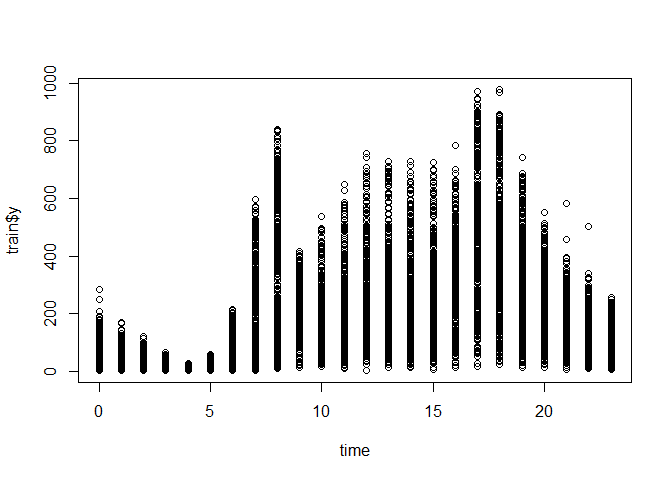
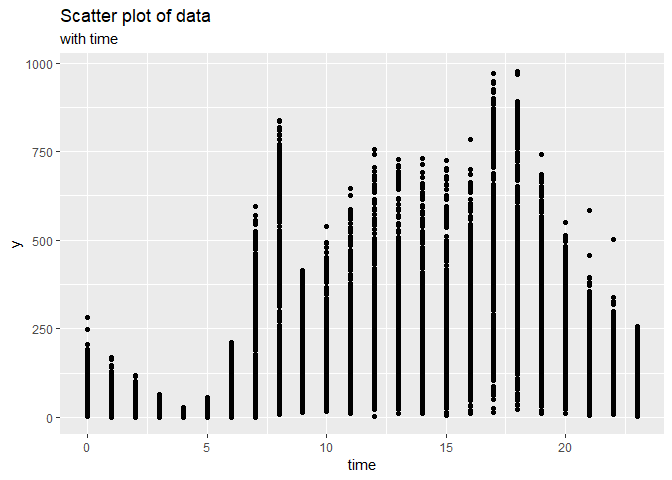
Before modeling 1st

diff --git a/Bike_Sharing_Demand_md.md b/Bike_Sharing_Demand_md.md
@@ -209,8 +209,13 @@ length(table(data$datetime))
 -&gt; 문자열 데이터이며, 데이터의 분할이 필요함을 확인할 수 있다.
 
 ``` r
-with(data, plot(y~as.factor(datetime)))
+ggplot(data = data, aes(x = datetime, y = y)) +
+  geom_point() +
+  labs(title = 'Scatter plot of data',
+       subtitle = 'with datetime')
 ```
+
+    ## Warning: Removed 6493 rows containing missing values (geom_point).
 
 ![](Bike_Sharing_Demand_md_files/figure-markdown_github/unnamed-chunk-5-1.png)
 
@@ -241,7 +246,7 @@ levels(data$season)
     ## [1] "spring" "summer" "fall"   "winter"
 
 계절에 따른 y값의 모양을 상자그림을 통하여 실시하려고 한다.
-단 2가지 방법으로 표현해보도록 하자.
+단 2가지 방법으로 표현해보도록 하자.(이후 표현은 ggplot으로 통일한다.)
 
 **A. Box Plot으로 그리기**
 
@@ -435,14 +440,6 @@ ggplot(data = data, aes(data$y))+
 **시간 분할해서 plot그려보기.**
 
 ``` r
-sp <- unlist(strsplit(train$datetime, ":"))
-time <- substr(sp[seq(from = 1, to = length(sp), by = 2)], 12, 13)
-plot(train$y~time)
-```
-
-![](Bike_Sharing_Demand_md_files/figure-markdown_github/unnamed-chunk-19-1.png)
-
-``` r
 sp <- unlist(strsplit(data$datetime, ":"))
 time <- substr(sp[seq(from = 1, to = length(sp), by = 2)], 12, 13)
 data$time <- as.integer(time)
@@ -454,7 +451,7 @@ ggplot(data = data, aes(x = time, y = y)) +
 
     ## Warning: Removed 6493 rows containing missing values (geom_point).
 
-![](Bike_Sharing_Demand_md_files/figure-markdown_github/unnamed-chunk-20-1.png)
+![](Bike_Sharing_Demand_md_files/figure-markdown_github/unnamed-chunk-19-1.png)
 
 -&gt; 일정한 추세를 보이는 것을 확인할 수 있었다.
 
@@ -511,7 +508,7 @@ ggplot(data = data, aes(x = daytime, y = y)) +
 
     ## Warning: Removed 6493 rows containing non-finite values (stat_boxplot).
 
-![](Bike_Sharing_Demand_md_files/figure-markdown_github/unnamed-chunk-22-1.png)
+![](Bike_Sharing_Demand_md_files/figure-markdown_github/unnamed-chunk-21-1.png)
 
 -&gt; 각각의 시간에 따른 추세가 중요해보이므로, 범주화 시킨 변수를 삭제한다.
 
@@ -627,7 +624,7 @@ ggplot(data = data, aes(x = weather, y = windspeed)) +
        subtitle = 'Grouped by weather')
 ```
 
-![](Bike_Sharing_Demand_md_files/figure-markdown_github/unnamed-chunk-30-1.png)
+![](Bike_Sharing_Demand_md_files/figure-markdown_github/unnamed-chunk-29-1.png)
 
 -&gt; 큰 영향을 보이지 않는 것 같아 보인다.
 
